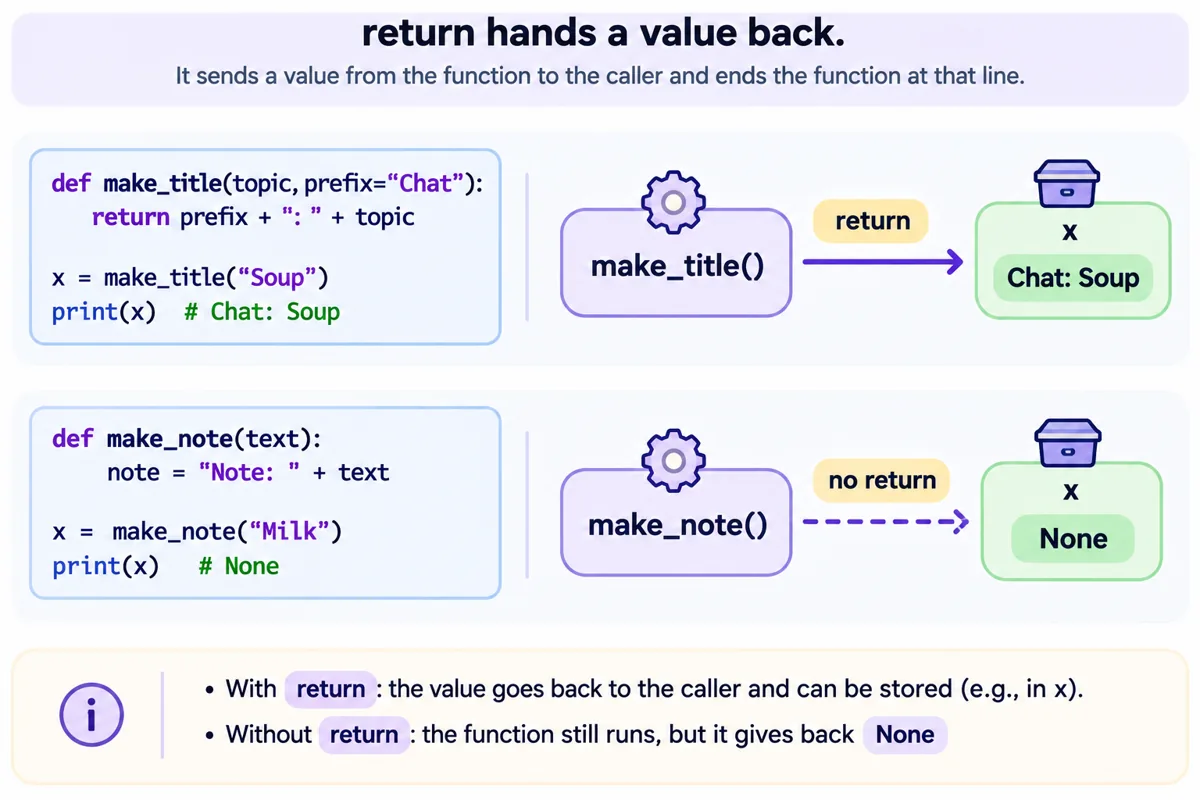
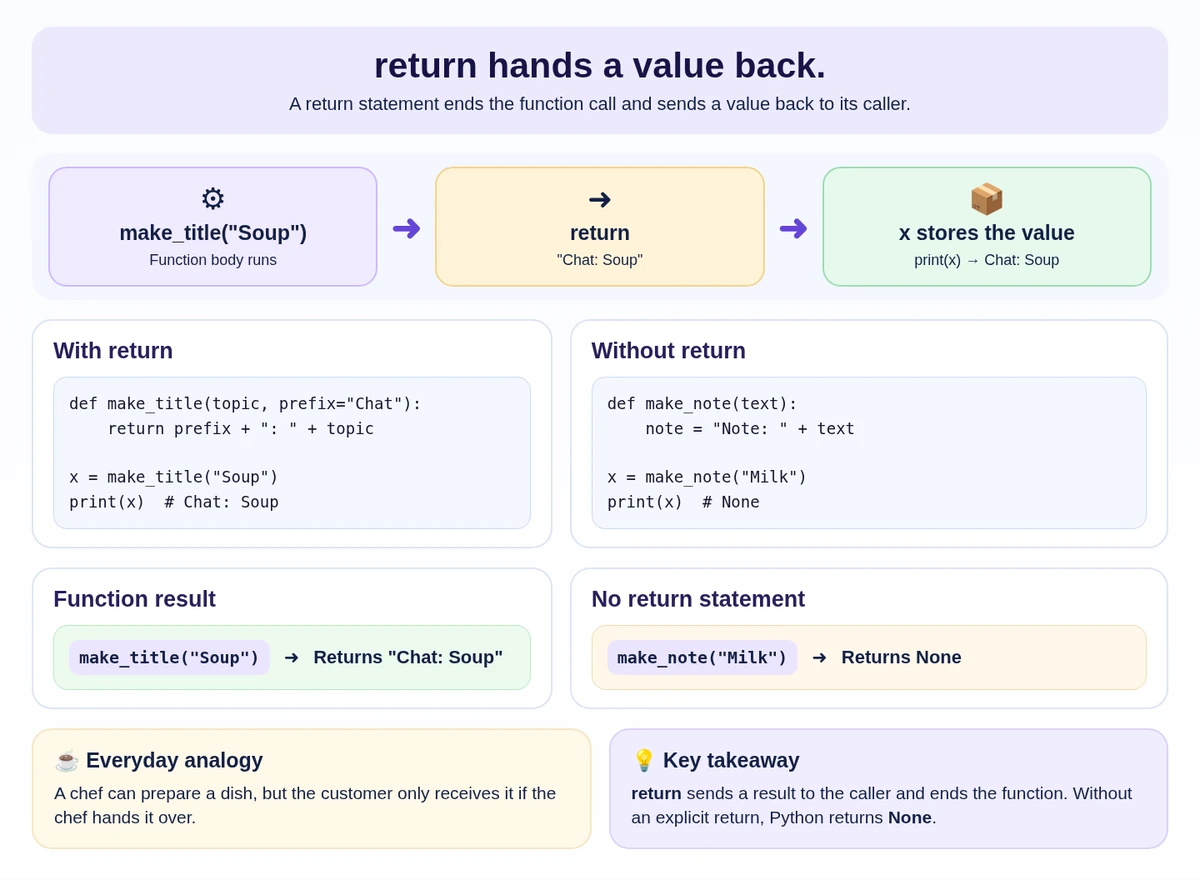
Replace Python functions lesson diagrams

diff --git a/src/lessons/python-for-ai/p1-09/Lesson.tsx b/src/lessons/python-for-ai/p1-09/Lesson.tsx
@@ -96,7 +96,7 @@ export default function Lesson() {
         <figure className={styles.figure}>
           <Image
             src={defineImage}
-            alt="Two panels. The left panel shows def make_title with a grey closed box labelled Body not run yet. An arrow labelled Call make_title(Pasta) points to the right panel, where the body runs and the result is returned."
+            alt='Diagram showing that def make_title stores the function without running its body, while calling make_title("Pasta") runs it and returns "Chat: Pasta". It also notes that the result is not printed automatically.'
             sizes="(max-width: 760px) 100vw, 720px"
           />
           <figcaption className="micro">
@@ -149,7 +149,7 @@ make_title("Pasta", "Recipe")    # prefix is "Recipe"`}</Code>
         <figure className={styles.figure}>
           <Image
             src={defaultImage}
-            alt="Two rows. Call without prefix, make_title(Pasta), uses the default prefix Chat and outputs Chat: Pasta. Call with prefix, make_title(Pasta, Recipe), uses the passed prefix Recipe and outputs Recipe: Pasta."
+            alt='Diagram comparing make_title("Pasta"), which uses the default prefix Chat and returns Chat: Pasta, with make_title("Pasta", "Recipe"), which returns Recipe: Pasta. The supplied value only affects that call.'
             sizes="(max-width: 760px) 100vw, 720px"
           />
           <figcaption className="micro">
@@ -205,7 +205,7 @@ print(x)   # Chat: Soup`}</Code>
         <figure className={styles.figure}>
           <Image
             src={returnImage}
-            alt="Two examples. make_title() with a return arrow stores Chat: Soup in x. make_note() has no return, so a dashed arrow stores None in x. Code for both functions is shown beside them."
+            alt='Diagram showing make_title("Soup") returning "Chat: Soup" into x, while make_note("Milk") has no return statement and therefore gives x the value None.'
             sizes="(max-width: 760px) 100vw, 720px"
           />
           <figcaption className="micro">
